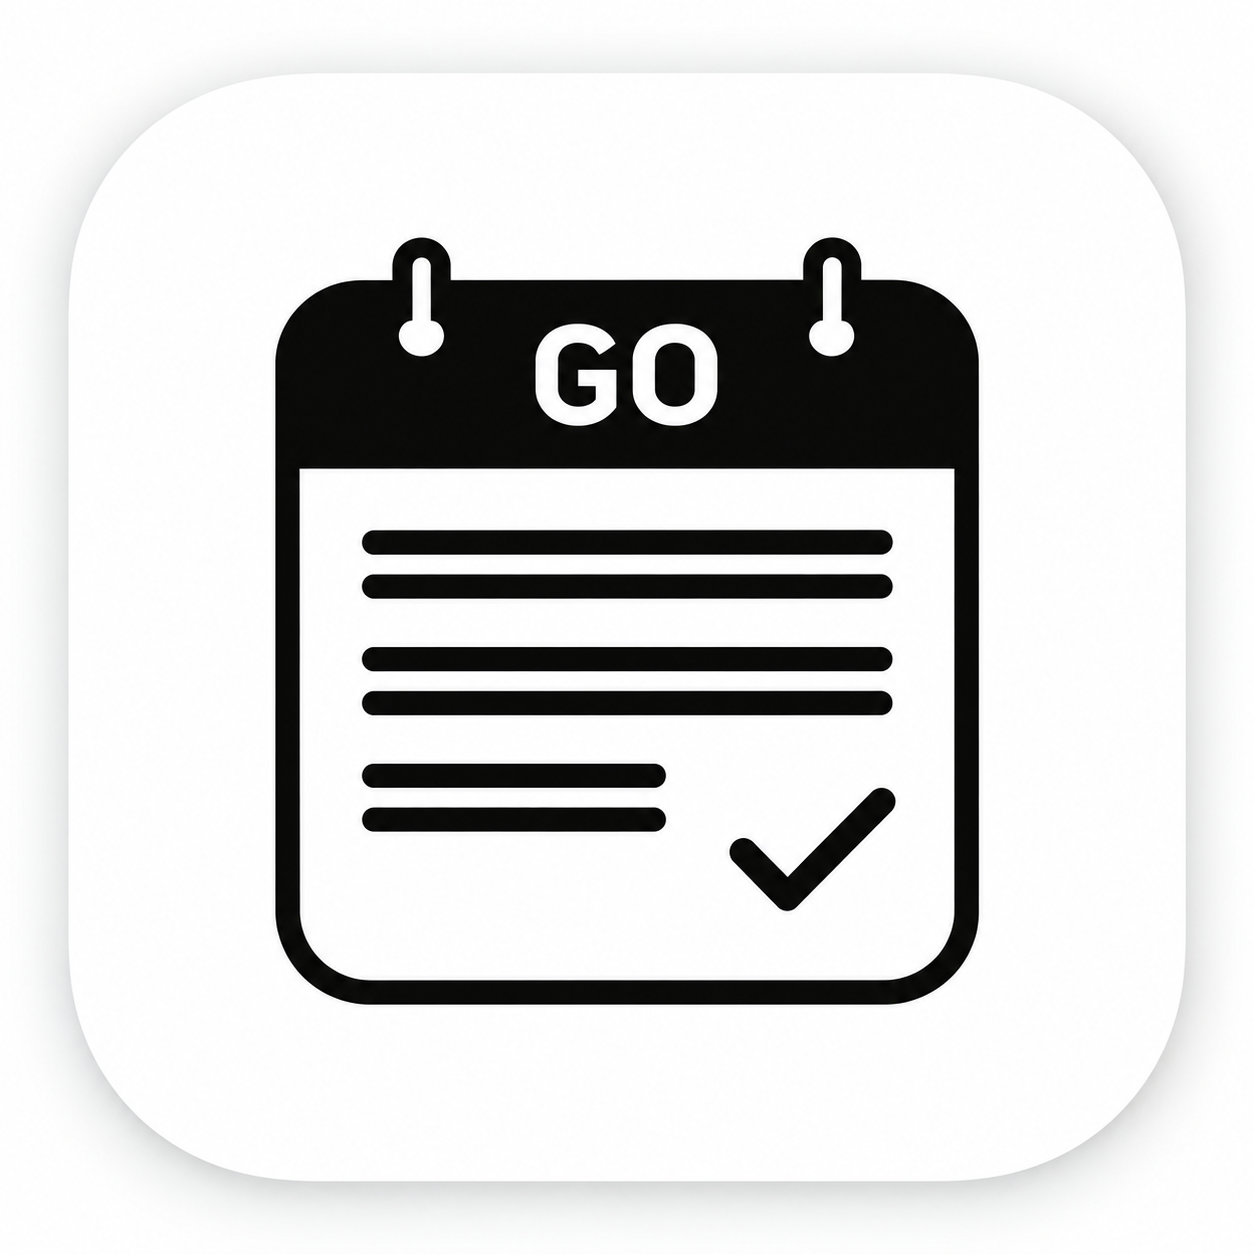
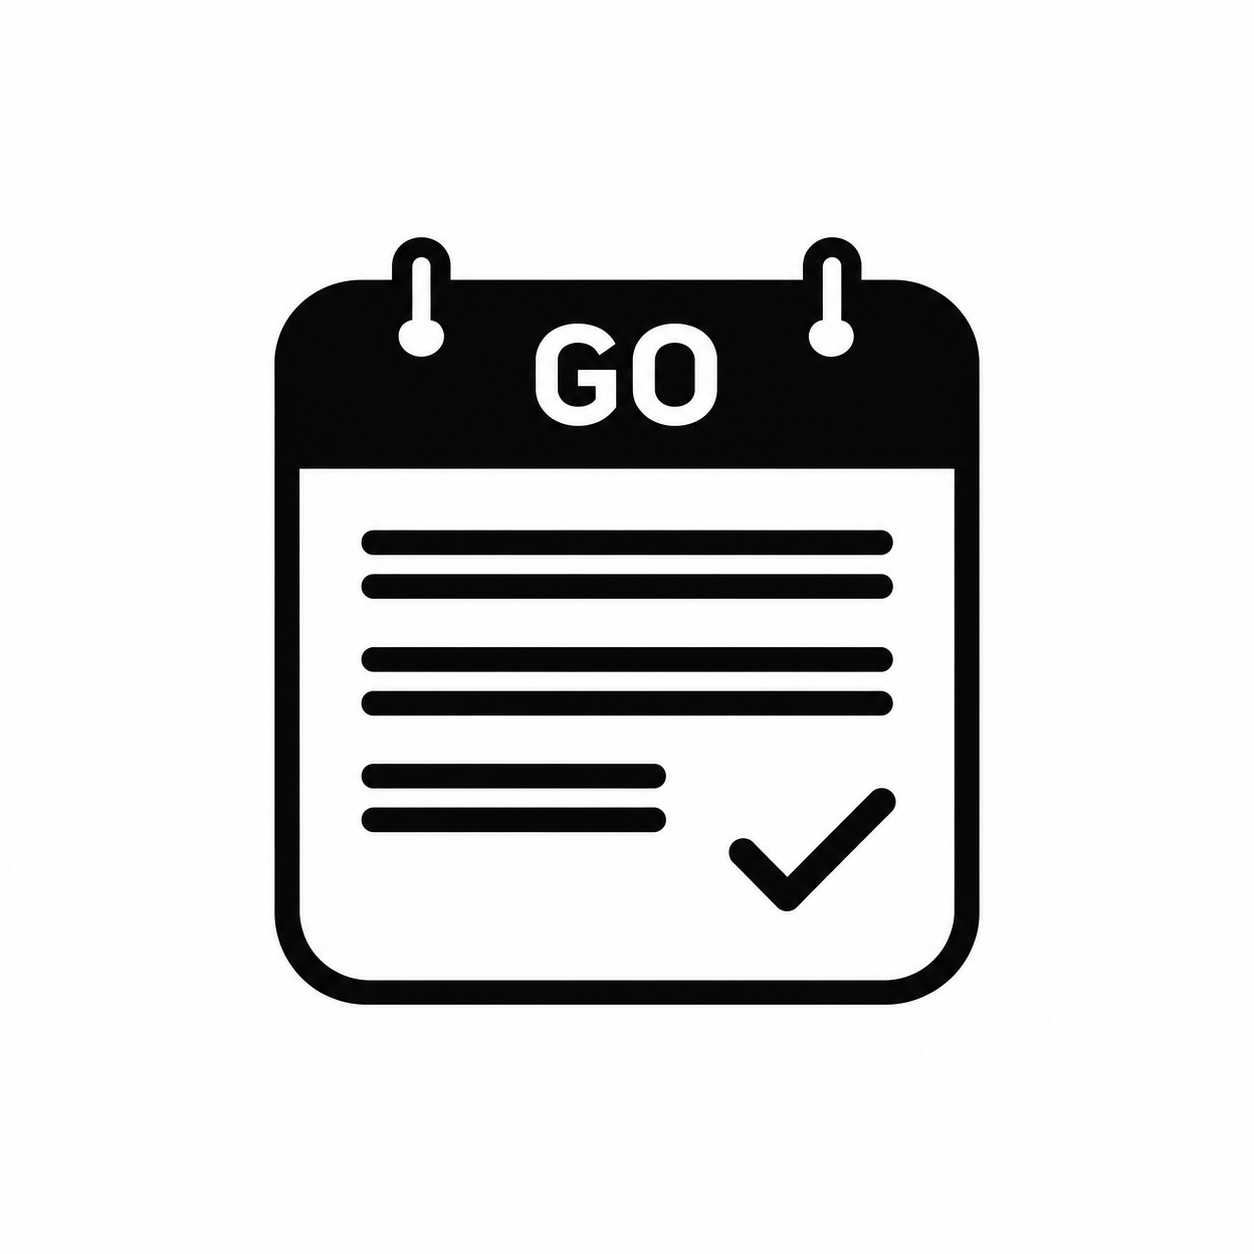
feat: 更换应用启动图标源图并重新生成全平台图标
- assets/images/plai_launcher_icon.png 换为平铺方图（1254x1254、RGB 无 alpha）
  旧源图自带圆角与阴影，被启动器二次遮罩后会露出白边与阴影残影
- 重新生成 Android mipmap-* 5 个密度与 iOS AppIcon.appiconset 全套（22 个尺寸）
- 编码约定 §12 产物命名更正为 Plai-android-<版本号>.apk，并注明须先改名再发布
- 交接报告补充换图源图要求（平铺方图/无 alpha/不随包分发）与
  flutter_launcher_icons 重写 pbxproj 造成假 M 的说明

diff --git a/编码约定.md b/编码约定.md
@@ -121,4 +121,4 @@ lib/
 - 请求默认**不携带** `temperature`（思考/推理型模型只允许默认采样，各厂商约束不一）；新功能不要写死温度，确需低温再显式传。
 - 工具 schema 一律经 `functionTool()` 生成：缺顶层 `type:"object"` 会自动补齐为完整 JSON Schema——**不要手写裸空 `{}` parameters**（Moonshot / kimi 等严格服务商会 400）。
 - 工具轮前言文字（如"我将调用 xx 函数"）不入库、不进 wire，用户只看到结果；改动 AI 系统提示词后跑 S6–S10 相关 widget 测试。
-- release APK 产物命名 `build/app/outputs/flutter-apk/Plai.<version>.apk`，versionCode 递增保证覆盖安装。
+- release APK 产物命名 `build/app/outputs/flutter-apk/Plai-android-<版本号>.apk`，versionCode 递增保证覆盖安装。发布脚本以**本地文件名**生成更新清单里的 `name`，所以必须先改名再发布；详见 `docs/automatic-update-release.md`。
